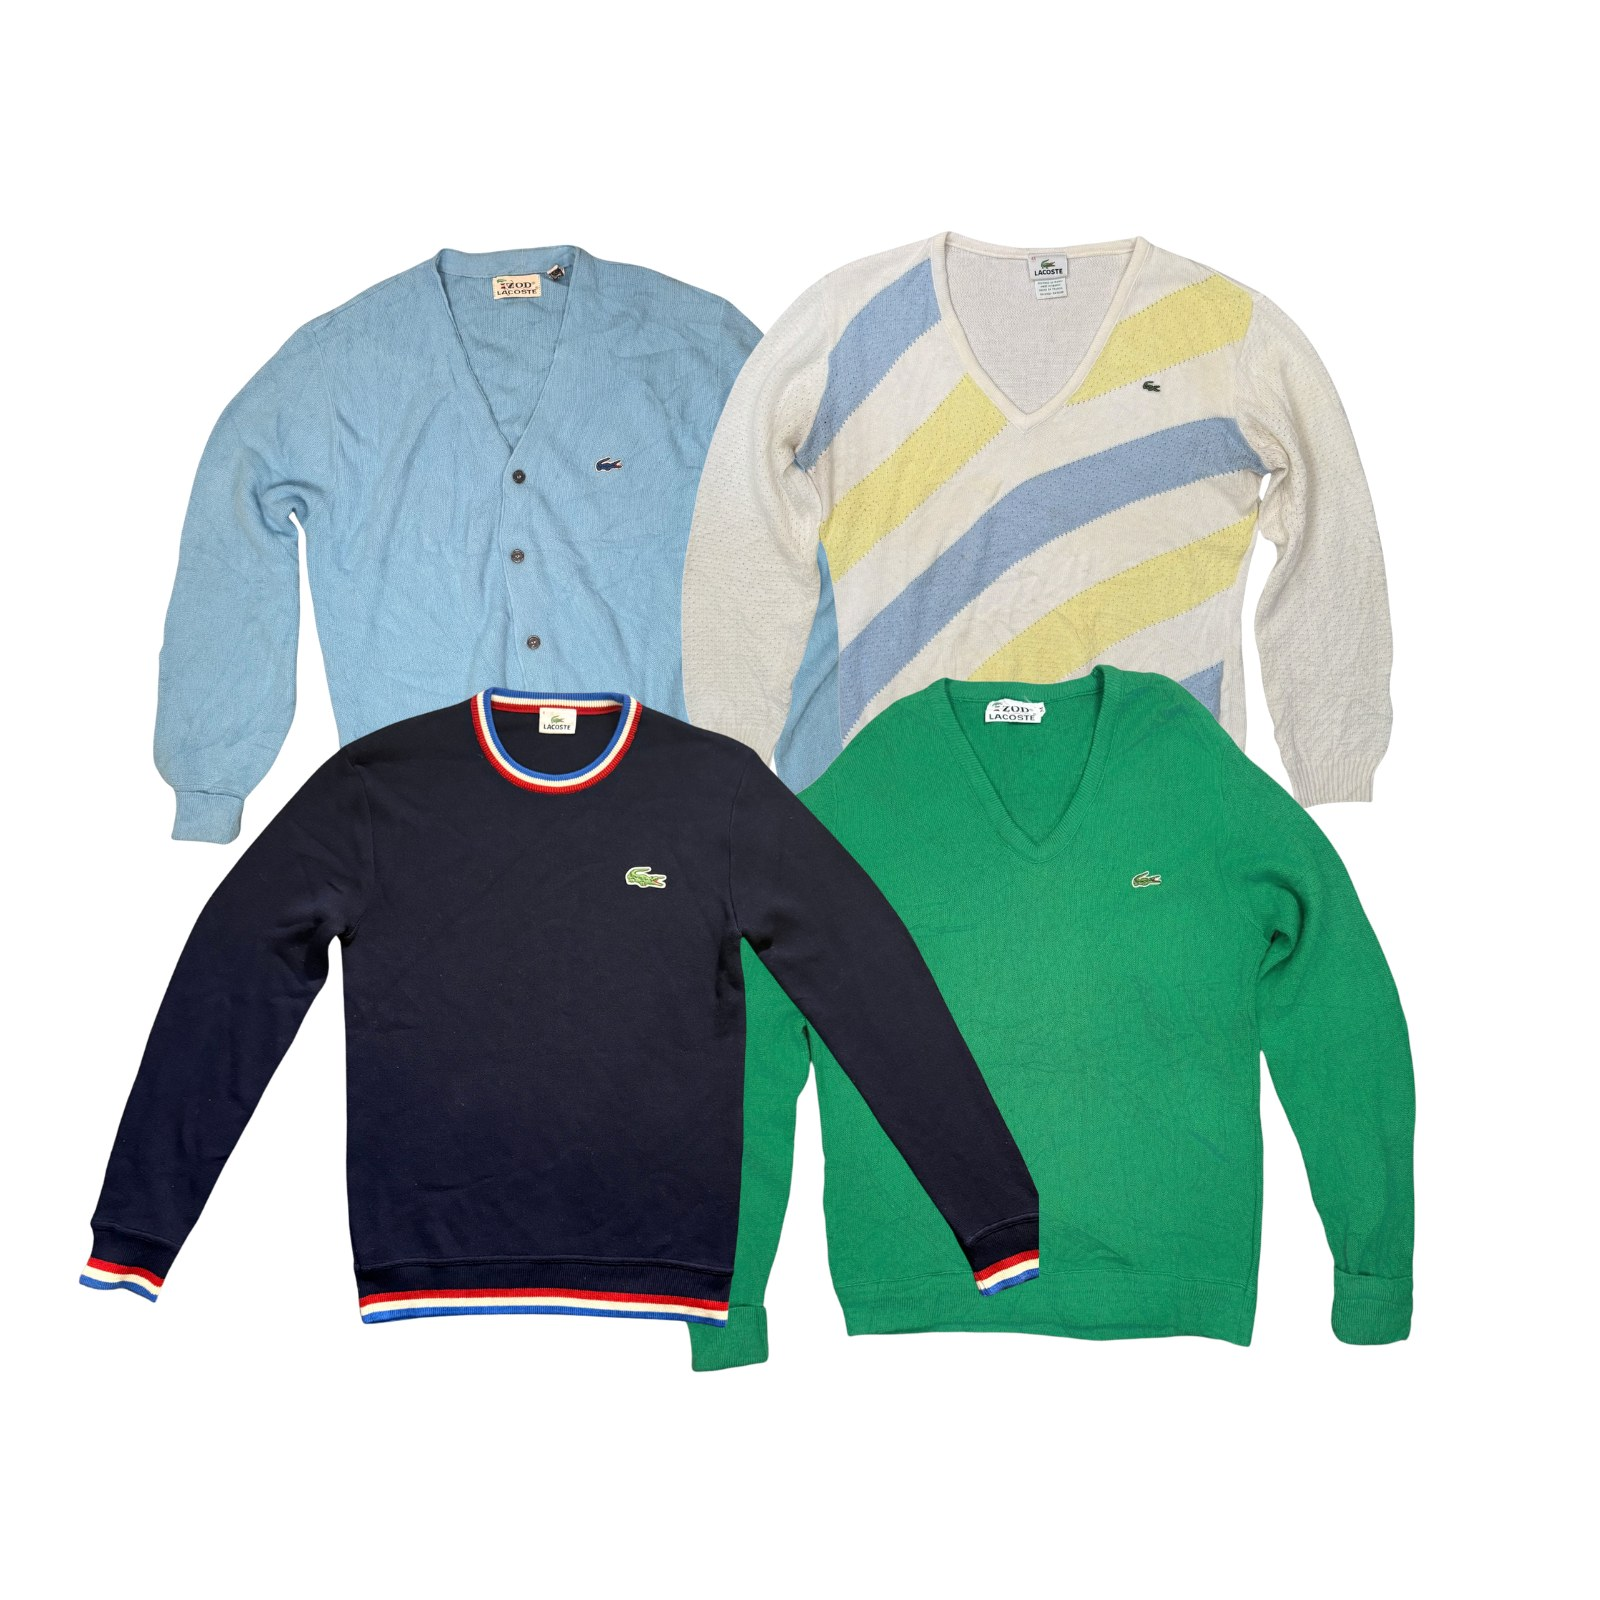
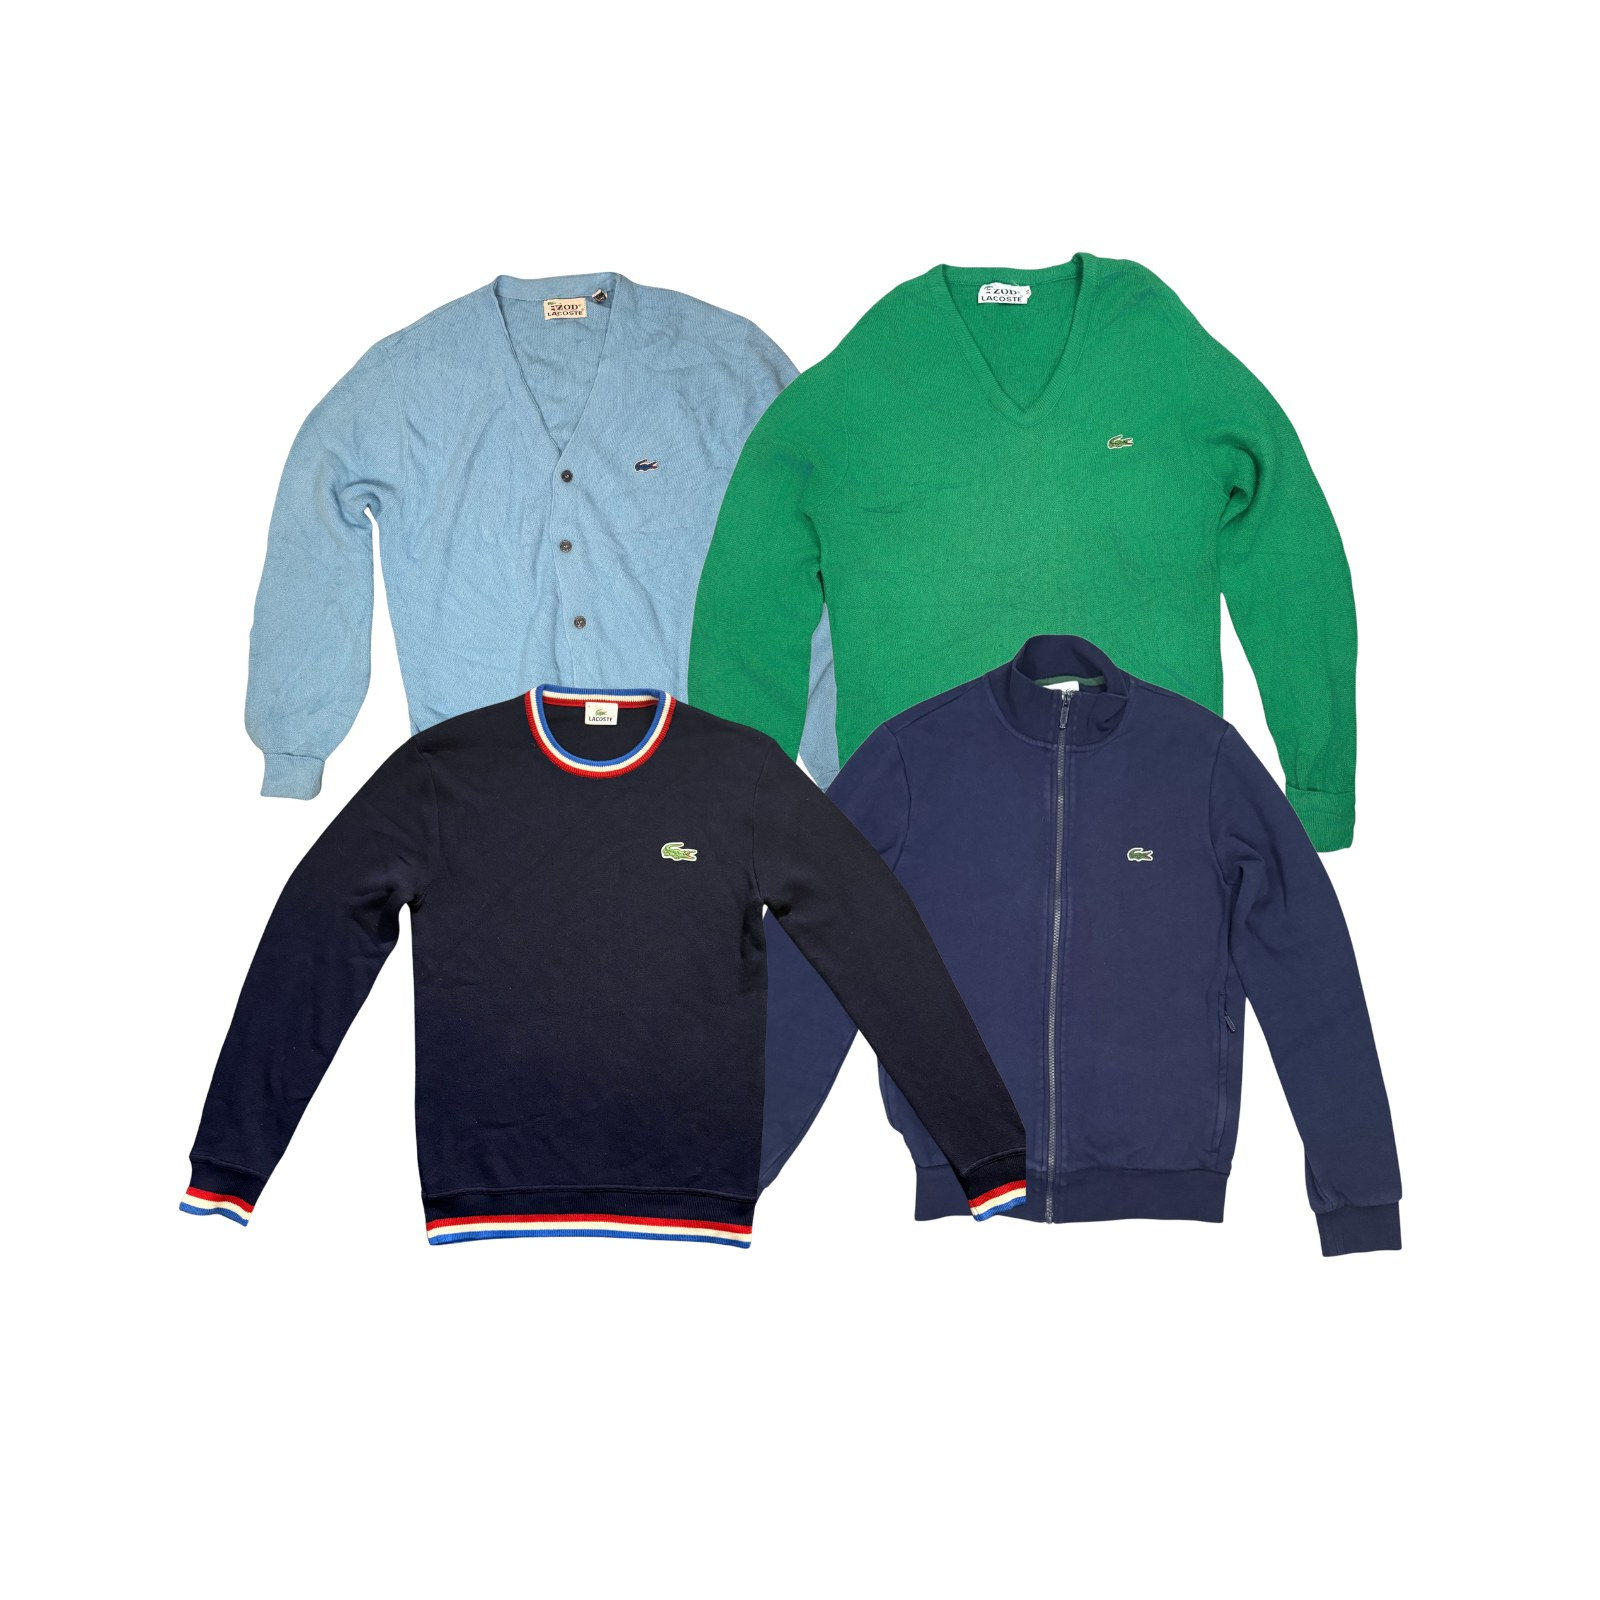
Lacoste Knitwear: use the revised hero flat lay
Claude-Session: https://claude.ai/code/session_01Px7wihV8B29XtPVFg8uA4F

diff --git a/site/src/data/catalogue.ts b/site/src/data/catalogue.ts
@@ -437,7 +437,7 @@ const catalogue: Product[] = [
     photos: [
       {
         src: "/images/products/lacoste-knitwear/01.jpg",
-        alt: "Four Lacoste knits laid flat on white: a pale blue IZOD Lacoste button cardigan, a cream v-neck with blue and yellow diagonal stripes, a navy crew with red, white and blue tipping, and a green v-neck jumper.",
+        alt: "Four Lacoste knits laid flat on white: a pale blue IZOD Lacoste button cardigan, a green v-neck jumper, a navy crew with red, white and blue tipping, and a navy zip-through with the croc on the chest.",
       },
     ],
     videos: [
